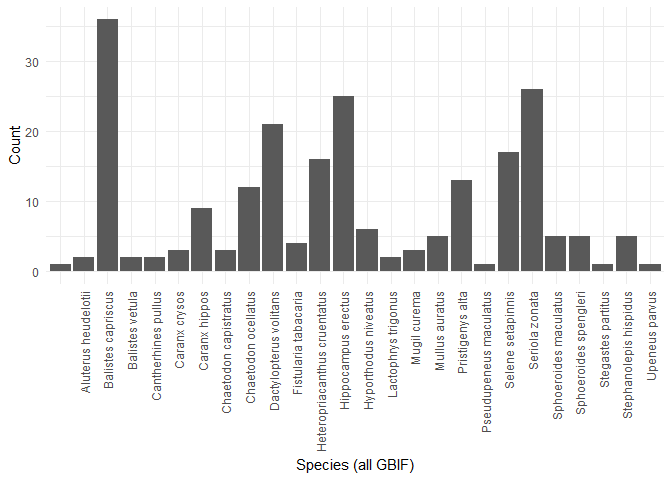
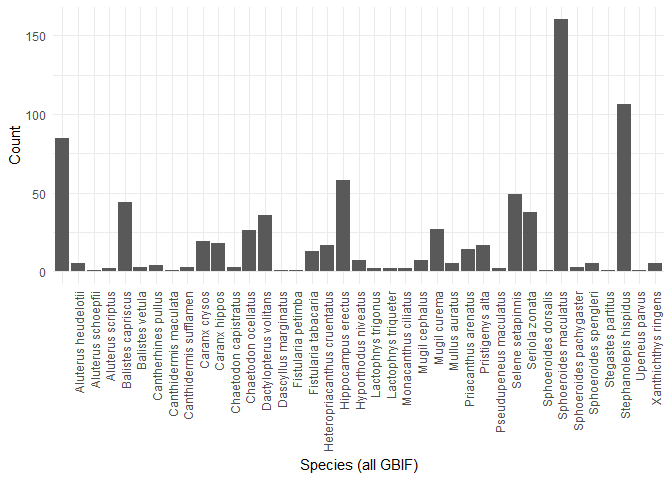
fix gbif plot

diff --git a/README.md b/README.md
@@ -32,7 +32,7 @@ tar_load(c(gbifdata,rinatdata,inatdata,maritimes))
 tar_visnetwork()
 #> Loading required package: librarian
 #> PhantomJS not found. You can install it with webshot::install_phantomjs(). If it is installed, please make sure the phantomjs executable can be found via the PATH variable.
-#> file:///C:/Users/DaigleR/AppData/Local/Temp/1/Rtmp0AKiem/file21d0c8033ce/widget21d0664145c7.html screenshot completed
+#> file:///C:/Users/DaigleR/AppData/Local/Temp/1/RtmpATAYpZ/file6ae8bec7f9a/widget6ae832f124b8.html screenshot completed
 ```
 
 ![](README_files/figure-gfm/unnamed-chunk-2-1.png)<!-- -->
@@ -42,7 +42,7 @@ tar_visnetwork()
 Species counts:
 
 ``` r
-ggplot(inatdata)+
+ggplot(gbifdata)+
   geom_bar(aes(species))+
   xlab(label = "Species (all GBIF)")+
   ylab(label="Count")+
